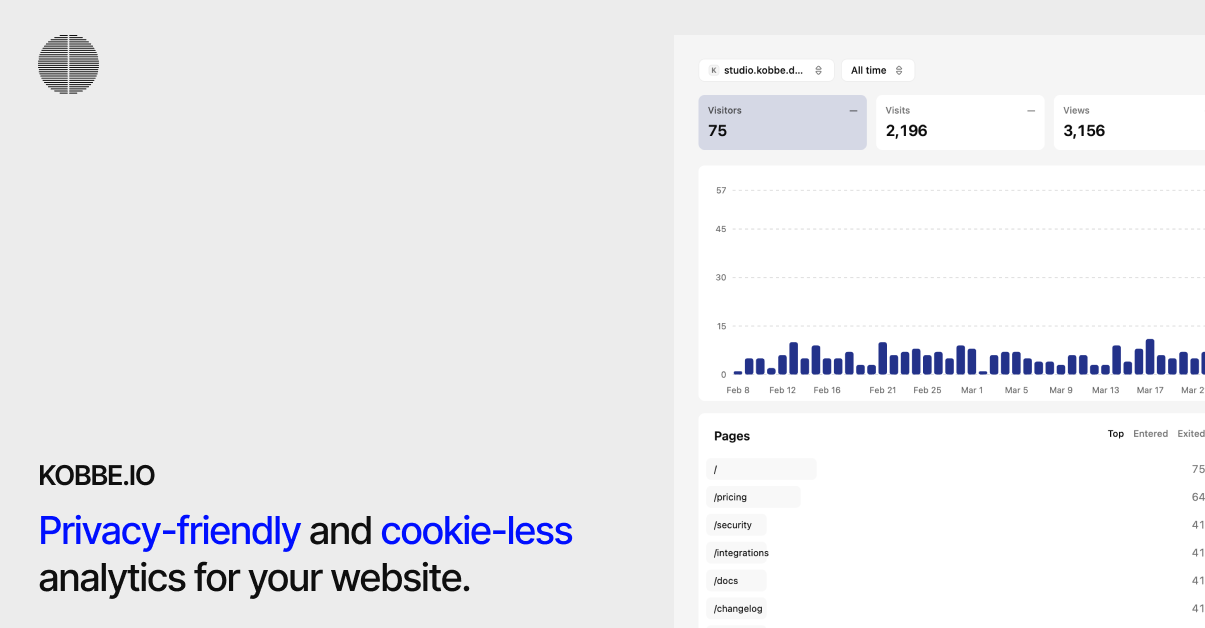
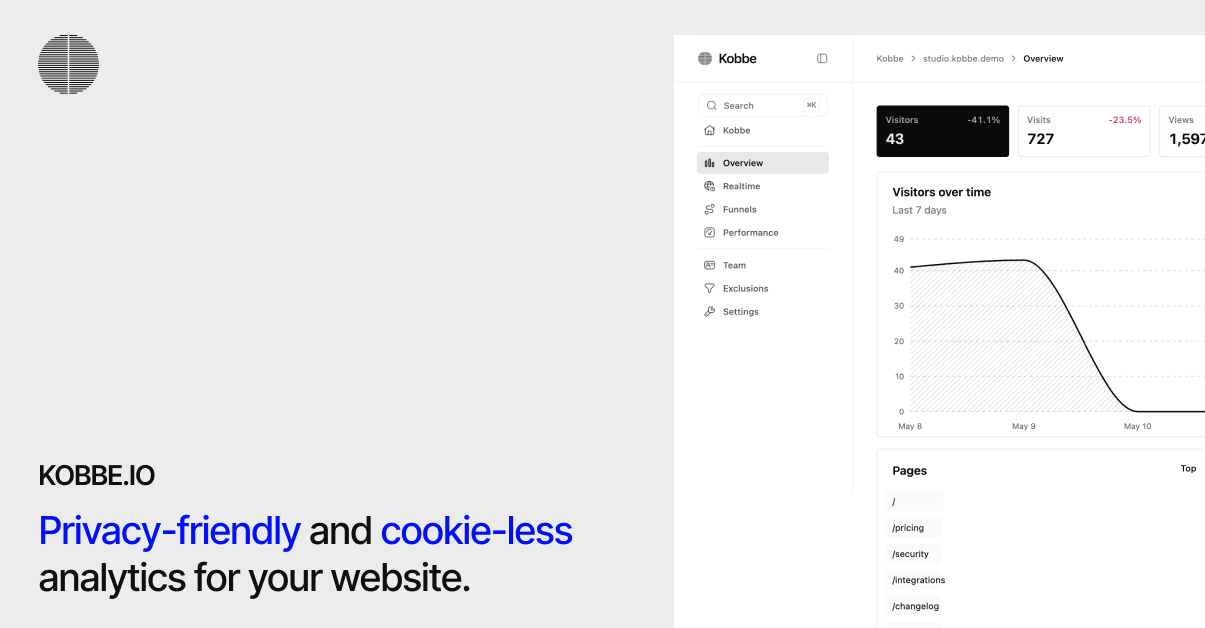
utms

diff --git a/src/components/landing/dashboard/dashboard-metric-strip.tsx b/src/components/landing/dashboard/dashboard-metric-strip.tsx
@@ -18,7 +18,10 @@ export function DashboardMetricStrip(props: DashboardMetricStripProps) {
         : "lg:grid-cols-4";
 
   return (
-    <section className={cn("mt-4", props.className)} aria-label={props.ariaLabel}>
+    <section
+      className={cn("mt-2 -mx-2 p-2", props.className)}
+      aria-label={props.ariaLabel}
+    >
       <div className={cn("relative grid grid-cols-2 gap-3 sm:grid-cols-3", lgColsClass)}>
         {props.children}
       </div>
@@ -36,16 +39,16 @@ type DashboardMetricTileProps = {
 };
 
 const metricTileBaseClass =
-  "relative min-w-0 p-3 text-left text-foreground transition-[background-color,box-shadow,color,transform] duration-200 ease-out focus-visible:outline-none focus-visible:ring-2 focus-visible:ring-ring focus-visible:ring-offset-2 focus-visible:ring-offset-background motion-reduce:transition-none";
+  "relative min-w-0 p-4 lg:aspect-square text-left text-foreground transition-[background-color,box-shadow,color,transform] duration-200 ease-out focus-visible:outline-none focus-visible:ring-2 focus-visible:ring-ring focus-visible:ring-offset-2 focus-visible:ring-offset-background motion-reduce:transition-none";
 
 const metricTileCardClass = cn(metricTileBaseClass, "rounded-md border bg-card");
 
 const metricTileMutedClass = cn(
   metricTileBaseClass,
-  "rounded bg-background ring ring-border ring-inset",
+  "rounded-xl bg-background",
 );
 
-const metricTileInteractiveMutedClass = "cursor-pointer hover:bg-muted hover:ring-0";
+const metricTileInteractiveMutedClass = "cursor-pointer hover:bg-surface hover:ring-0";
 
 export function DashboardMetricTile(props: DashboardMetricTileProps) {
   const surface = props.surface ?? "card";
@@ -59,7 +62,7 @@ export function DashboardMetricTile(props: DashboardMetricTileProps) {
   const className = cn(
     surface === "muted" ? metricTileMutedClass : metricTileCardClass,
     surface === "muted" && isInteractive && metricTileInteractiveMutedClass,
-    props.active && "bg-muted text-foreground ring-0 invert",
+    props.active && "bg-foreground text-background ring-0 hover:bg-foreground",
     props.className,
   );
 

diff --git a/src/components/landing/dashboard/dashboard-capability-grid.tsx b/src/components/landing/dashboard/dashboard-capability-grid.tsx
@@ -140,7 +140,7 @@ function TrafficOverviewPreview() {
 
 function TrafficMetric(props: { label: string; value: string }) {
   return (
-    <div className="bg-muted rounded-md p-3">
+    <div className="bg-background rounded-xl p-3">
       <p className="text-muted-foreground truncate text-xs font-medium">
         {props.label}
       </p>
@@ -153,7 +153,7 @@ function TrafficMetric(props: { label: string; value: string }) {
 
 function CapabilityCard(props: CapabilityCardProps) {
   return (
-    <Card className="group bg-transaprent min-w-0 gap-0 overflow-hidden p-0">
+    <Card className="group min-w-0 gap-0 overflow-hidden bg-transparent p-0">
       <CardHeader className="px-0 pt-4 sm:pt-5">
         <CardTitle className="text-foreground text-base font-semibold tracking-tight uppercase">
           {props.title}
@@ -162,7 +162,7 @@ function CapabilityCard(props: CapabilityCardProps) {
           {props.description}
         </CardDescription>
       </CardHeader>
-      <CardContent className="bg-muted mt-8 min-w-0 p-8 lg:p-20">
+      <CardContent className="bg-muted mt-8 min-w-0 rounded-xl p-8 lg:p-20">
         <PreviewFrame mockupClassName={props.mockupClassName}>
           {props.children}
         </PreviewFrame>
@@ -178,10 +178,10 @@ function PreviewFrame(props: {
   const shouldReduceMotion = useReducedMotion();
 
   return (
-    <div className="bg-card relative h-72 w-full overflow-hidden">
+    <div className="bg-muted relative h-72 w-full overflow-hidden rounded-xl">
       <motion.div
         className={cn(
-          "kobbe-capability-mockup pointer-events-none absolute top-2 left-2 origin-top-left **:data-dashboard-metric-tile:bg-transparent **:data-[slot=card]:bg-transparent",
+          "kobbe-capability-mockup pointer-events-none absolute top-2 left-2 origin-top-left",
           props.mockupClassName,
         )}
         initial={

diff --git a/src/components/landing/dashboard/dashboard-traffic-chart.tsx b/src/components/landing/dashboard/dashboard-traffic-chart.tsx
@@ -1,8 +1,18 @@
 import type { ReactNode } from "react";
 
-import { Card, CardContent } from "@/components/ui/card";
+import {
+  Card,
+  CardContent,
+  CardDescription,
+  CardHeader,
+  CardTitle,
+} from "@/components/ui/card";
 import { cn } from "@/lib/utils";
-import { dashboardCardRootClass } from "./dashboard-card-layout";
+import {
+  dashboardCardHeaderClass,
+  dashboardCardRootClass,
+  dashboardCardTitleClass,
+} from "./dashboard-card-layout";
 import {
   TrafficLineChart,
   type StackedChartPoint,
@@ -22,14 +32,15 @@ export function DashboardTrafficChart(props: Props) {
   return (
     <section className="mt-4 sm:mt-5">
       <Card className={cn(dashboardCardRootClass, props.className)}>
-        <CardContent className="min-w-0 p-0">
-          {props.children ? (
-            <div className="px-4 pt-3.5 pb-1 sm:px-5 sm:pt-4">
-              <h3 className="text-sm leading-snug font-semibold text-foreground sm:text-base">
-                {props.children} over time
-              </h3>
-            </div>
-          ) : null}
+        {props.children ? (
+          <CardHeader className={dashboardCardHeaderClass}>
+            <CardTitle className={dashboardCardTitleClass}>
+              {props.children} over time
+            </CardTitle>
+            <CardDescription>{props.rangeLabel}</CardDescription>
+          </CardHeader>
+        ) : null}
+        <CardContent className="min-w-0 px-0 pt-0 pb-4">
           <TrafficLineChart
             points={props.points}
             bucket="day"

diff --git a/src/components/landing/dashboard/dashboard-kpi-strip.tsx b/src/components/landing/dashboard/dashboard-kpi-strip.tsx
@@ -52,7 +52,7 @@ function KpiStripGrid(props: {
 
 function KpiTileBody(kpi: KpiTileBodyProps) {
   const toneClass = kpi.active
-    ? "text-foreground/70"
+    ? "text-background/70"
     : kpi.rightHintTone === "good"
       ? "text-success"
       : kpi.rightHintTone === "bad"
@@ -64,7 +64,7 @@ function KpiTileBody(kpi: KpiTileBodyProps) {
         <span
           className={cn(
             "truncate text-xs leading-tight font-medium",
-            kpi.active ? "text-foreground/70" : "text-muted-foreground",
+            kpi.active ? "text-background/70" : "text-muted-foreground",
           )}
         >
           {kpi.label}
@@ -83,7 +83,8 @@ function KpiTileBody(kpi: KpiTileBodyProps) {
       <div className="mt-auto min-w-0">
         <span
           className={cn(
-            "text-lg leading-tight font-semibold tracking-tight text-foreground tabular-nums sm:text-xl",
+            "text-lg leading-tight font-medium tracking-tight tabular-nums sm:text-xl",
+            kpi.active ? "text-background" : "text-foreground",
             kpi.valueClassName,
           )}
         >

diff --git a/src/components/landing/dashboard/revenue-insights-preview.tsx b/src/components/landing/dashboard/revenue-insights-preview.tsx
@@ -58,9 +58,9 @@ export function RevenueInsightsPreview() {
         }
       `}</style>
       <Card className="bg-muted gap-0 overflow-hidden border-0 p-8 lg:p-42">
-        <CardContent className="bg-card p-0 py-4">
-          <div className="relative h-80 overflow-hidden rounded-md">
-            <div className="pointer-events-none absolute top-0 left-0 w-full origin-top-left **:data-[slot=card]:border-0 **:data-[slot=card]:bg-transparent">
+        <CardContent className="bg-card rounded-xl p-0 py-4">
+          <div className="bg-background relative h-80 overflow-hidden rounded-xl">
+            <div className="pointer-events-none absolute top-0 left-0 w-full origin-top-left">
               <div className="kobbe-revenue-chart pointer-events-auto relative z-10">
                 <DashboardTrafficChart
                   points={data.points}

diff --git a/src/components/landing/dashboard/dashboard-card-layout.ts b/src/components/landing/dashboard/dashboard-card-layout.ts
@@ -1,4 +1,4 @@
-export const dashboardCardRootClass = "gap-0 rounded bg-background py-0";
+export const dashboardCardRootClass = "gap-0 rounded-xl bg-background py-0";
 export const dashboardCardHeaderClass =
   "px-4 pt-3.5 pb-3 sm:px-5 sm:pt-4 sm:pb-3.5";
 export const dashboardTabbedCardHeaderClass =
